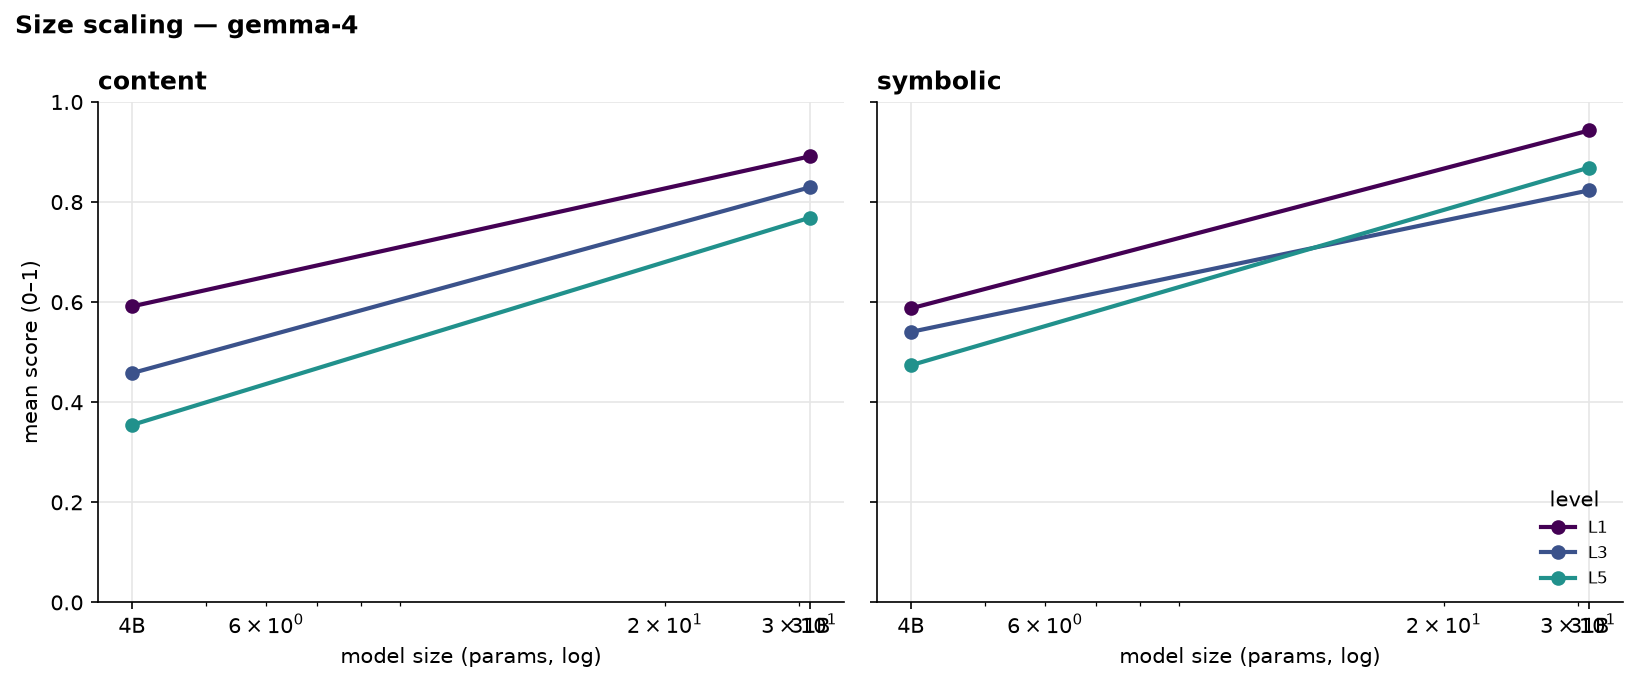
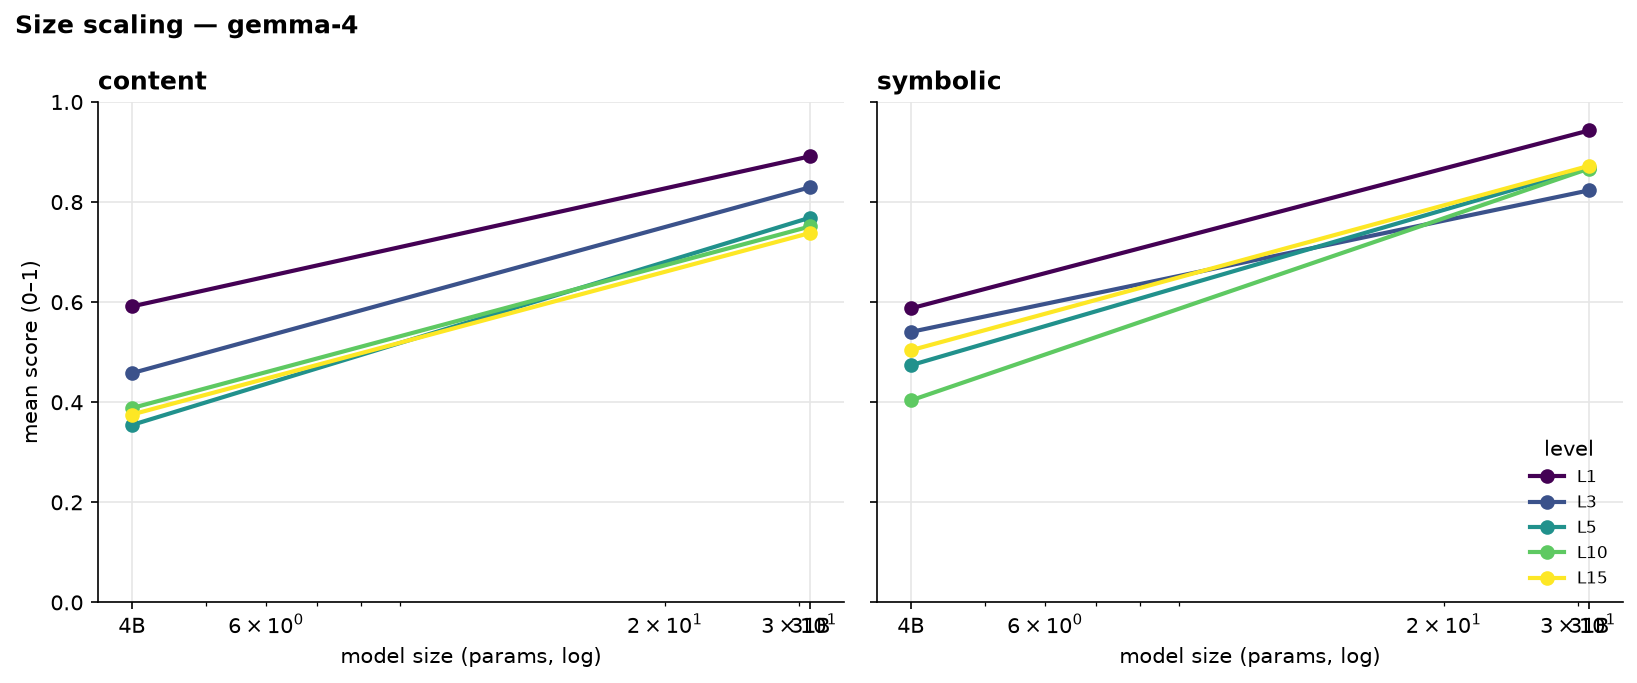
docs: finalize 2026-07-24 report — complete Gemma E4B/31B ladder
E4B addendum finished (all 5 levels, 0 errors). Regenerated the Gemma scaling
figure (now full E4B-vs-31B ladder) and added gemma-4-E4B-it rows to the content/
symbolic tables. Finding: the Gemma size step (~0.3-0.4 per level, both modes) is
far larger than the ~0.1 within Qwen 3.5 — noting E4B is a nested/distilled variant.
Full grid: 6 models x 5 levels x 2 modes, 0 API errors.

diff --git a/docs/model-eval-2026-07-24/report.md b/docs/model-eval-2026-07-24/report.md
@@ -68,6 +68,7 @@ and scores largely plateau there for the strong models.
 | qwen3.5-27b | 0.854 | 0.822 | 0.741 | 0.726 | 0.716 |
 | qwen3.5-9b | 0.645 | 0.569 | 0.514 | 0.462 | 0.513 |
 | qwen3.5-4b | 0.562 | 0.502 | 0.372 | 0.376 | 0.319 |
+| gemma-4-E4B-it | 0.591 | 0.458 | 0.354 | 0.388 | 0.375 |
 
 **Symbolic** (mean score)
 | model | L1 | L3 | L5 | L10 | L15 |
@@ -77,6 +78,7 @@ and scores largely plateau there for the strong models.
 | qwen3.5-27b | 0.908 | 0.828 | 0.733 | 0.751 | 0.704 |
 | qwen3.5-9b | 0.777 | 0.617 | 0.588 | 0.543 | 0.530 |
 | qwen3.5-4b | 0.655 | 0.559 | 0.403 | 0.353 | 0.267 |
+| gemma-4-E4B-it | 0.588 | 0.540 | 0.474 | 0.404 | 0.504 |
 
 **Reading:** In **content** the three ≥27B models cluster (qwen3.6 and gemma tied for
 the lead, qwen3.5-27b just behind), decaying then flattening. In **symbolic** they
@@ -147,13 +149,16 @@ much each size loses to difficulty.
 ![Qwen 3.5 scaling](figures/fig3_scaling_qwen3.5.png)
 ![Gemma scaling](figures/fig3_scaling_gemma-4.png)
 
-*(The Gemma ladder — gemma-4-E4B-it vs gemma-4-31b-it — is being completed; higher-level
-E4B points land as its addendum run finishes and this figure is regenerated.)*
-
 **Reading:** Size ordering is monotone at every level in both modes (Qwen 3.5:
 4B<9B<27B; Gemma: E4B<31B), and the level-curves fan out with size — **larger models
-lose less to difficulty.** (Small-model points here are *raw*; per §5 their true
-reasoning gap to the large models is smaller than these curves suggest.)
+lose less to difficulty.** The **Gemma family shows a much larger size step** than
+Qwen: gemma-4-31b-it beats gemma-4-E4B-it (~4B effective) by **~0.3–0.4 at every
+level in both modes**, versus ~0.1 between adjacent Qwen 3.5 sizes — though E4B is a
+nested/distilled variant, not a clean smaller pretrain, so this ladder is a rougher
+comparison than Qwen's. (Small-model points here are *raw*; per §5, for the Qwen
+small models the true reasoning gap is smaller than the raw curves suggest. Note E4B,
+like the 31B, does **not** truncate — its lower scores are genuine misses, not the
+length-control effect seen in the small Qwens.)
 
 ---
 
